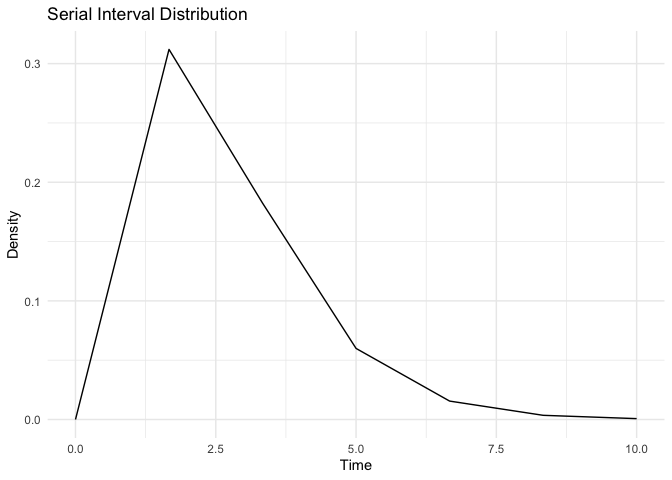
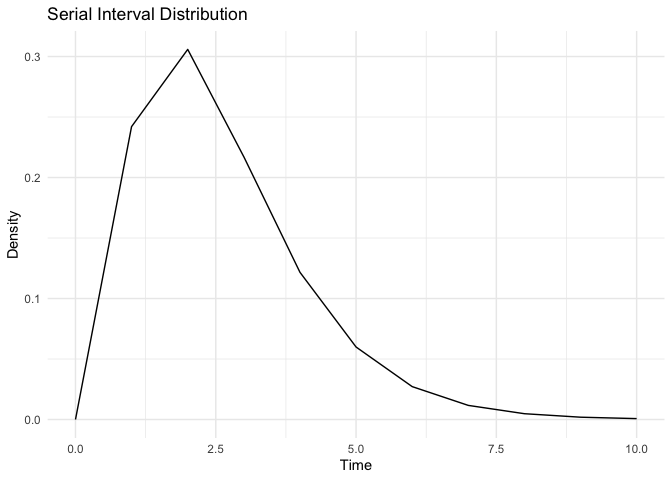
commit

diff --git a/EpiEstim_earlyR_testing.md b/EpiEstim_earlyR_testing.md
@@ -189,7 +189,7 @@ scale <- 0.865384615384615
 
 # Generate a sequence of values
 
-x <- seq(0, 10, length.out = 7)
+x <- seq(0, 10)
 
 # Calculate the density of the gamma distribution
 
